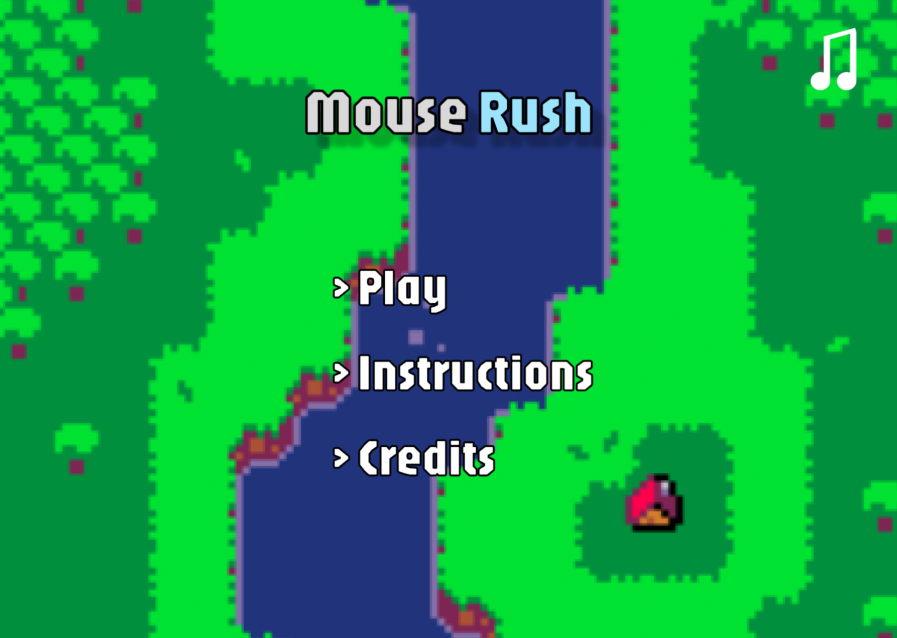
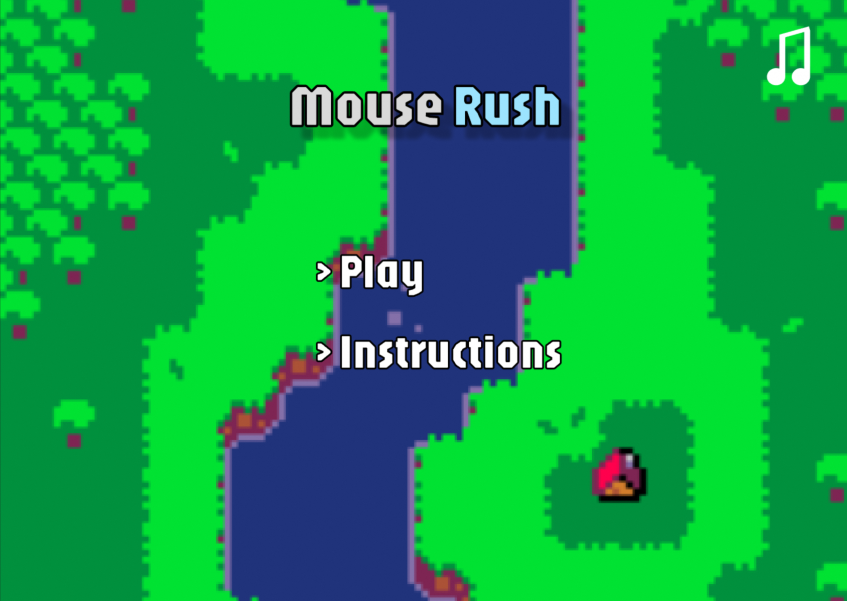
03.04.2025 - Updated mockup page + logbook

diff --git a/journal_de_bord.html b/journal_de_bord.html
@@ -53,81 +53,98 @@
                 a description of the task, and finally the author's name.</p>
             <table>
                 <thead>
-                    <tr>
-                        <th>Date</th>
-                        <th>Duration</th>
-                        <th>Task</th>
-                        <th>Author</th>
-                    </tr>
+                <tr>
+                    <th>Date</th>
+                    <th>Duration</th>
+                    <th>Task</th>
+                    <th>Author</th>
+                </tr>
                 </thead>
                 <tbody>
-                    <tr>
-                        <td>14.03.2025</td>
-                        <td>01:00</td>
-                        <td>Alignment meeting</td>
-                        <td>The team</td>
-                    </tr>
-                    <tr>
-                        <td>16.03.2025</td>
-                        <td>04:00</td>
-                        <td>General organization of the project with files, GitHub creation and analyze of the structure
-                            of the given website example + CSS general layout with pictures. </td>
-                        <td>Marion Rossier</td>
-                    </tr>
-                    <tr>
-                        <td>20.03.2025</td>
-                        <td>00:20</td>
-                        <td>Study about generation of noises using Java.</td>
-                        <td>Mégane Donnet-Monay</td>
-                    </tr>
-                    <tr>
-                        <td>21.03.2025</td>
-                        <td>01:00</td>
-                        <td>Organisationnal meeting</td>
-                        <td>The team</td>
-                    </tr>
-                    <tr>
-                        <td>21.03.2025</td>
-                        <td>02:00</td>
-                        <td>CSS, the responsive part + adjustments</td>
-                        <td>Marion Rossier</td>
-                    </tr>
-                    <tr>
-                        <td>23.03.2025</td>
-                        <td>01:30</td>
-                        <td>Description page content</td>
-                        <td>Eric Sierro</td>
-                    </tr>
-                    <tr>
-                        <td>26.03.2025</td>
-                        <td>01:00</td>
-                        <td>Addition of the logbook + corresponding CSS</td>
-                        <td>Marion Rossier</td>
-                    </tr>
-                    <tr>
-                        <td>27.03.2025</td>
-                        <td>01:00</td>
-                        <td>Adjustment of the description page and the logbook page.</td>
-                        <td>Eric Sierro</td>
-                    </tr>
-                    <tr>
-                        <td>27.03.2025</td>
-                        <td>00:30</td>
-                        <td>Refactoring sequence diagram</td>
-                        <td>Marion Rossier and Mégane Donnet-Monay</td>
-                    </tr>
-                    <tr>
-                        <td>28.03.2025</td>
-                        <td>03:00</td>
-                        <td>Adjustement responsive CSS + add Wireframe and diagrams </td>
-                        <td>Marion Rossier</td>
-                    </tr>
-                    <tr>
-                        <td>31.03.2025</td>
-                        <td>01:30</td>
-                        <td>Creation of a part of the game with random structure like labyrinth </td>
-                        <td>Marion Rossier</td>
-                    </tr>
+                <tr>
+                    <td>14.03.2025</td>
+                    <td>01:00</td>
+                    <td>Alignment meeting</td>
+                    <td>The team</td>
+                </tr>
+                <tr>
+                    <td>16.03.2025</td>
+                    <td>04:00</td>
+                    <td>General organization of the project with files, GitHub creation and analyze of the structure
+                        of the given website example + CSS general layout with pictures.
+                    </td>
+                    <td>Marion Rossier</td>
+                </tr>
+                <tr>
+                    <td>20.03.2025</td>
+                    <td>00:20</td>
+                    <td>Study about generation of noises using Java.</td>
+                    <td>Mégane Donnet-Monay</td>
+                </tr>
+                <tr>
+                    <td>21.03.2025</td>
+                    <td>01:00</td>
+                    <td>Organisationnal meeting</td>
+                    <td>The team</td>
+                </tr>
+                <tr>
+                    <td>21.03.2025</td>
+                    <td>02:00</td>
+                    <td>CSS, the responsive part + adjustments</td>
+                    <td>Marion Rossier</td>
+                </tr>
+                <tr>
+                    <td>23.03.2025</td>
+                    <td>01:30</td>
+                    <td>Description page content</td>
+                    <td>Eric Sierro</td>
+                </tr>
+                <tr>
+                    <td>26.03.2025</td>
+                    <td>01:00</td>
+                    <td>Addition of the logbook + corresponding CSS</td>
+                    <td>Marion Rossier</td>
+                </tr>
+                <tr>
+                    <td>27.03.2025</td>
+                    <td>01:00</td>
+                    <td>Adjustment of the description page and the logbook page.</td>
+                    <td>Eric Sierro</td>
+                </tr>
+                <tr>
+                    <td>27.03.2025</td>
+                    <td>02:00</td>
+                    <td>Mockup screenshots created and added to the page</td>
+                    <td>Valentin Guiraud</td>
+                </tr>
+                <tr>
+                    <td>27.03.2025</td>
+                    <td>00:30</td>
+                    <td>Refactoring sequence diagram</td>
+                    <td>Marion Rossier and Mégane Donnet-Monay</td>
+                </tr>
+                <tr>
+                    <td>28.03.2025</td>
+                    <td>03:00</td>
+                    <td>Adjustement responsive CSS + add Wireframe and diagrams</td>
+                    <td>Marion Rossier</td>
+                </tr>
+                <td>29.03.2025</td>
+                <td>01:00</td>
+                <td>Customised mockup pictures using texture pack</td>
+                <td>Valentin Guiraud</td>
+                <tr>
+                    <td>31.03.2025</td>
+                    <td>01:30</td>
+                    <td>Creation of a part of the game with random structure like labyrinth</td>
+                    <td>Marion Rossier</td>
+                </tr>
+                </tr>
+                    <td>03.04.2025</td>
+                    <td>02:30</td>
+                    <td>Updated mockup pictures + several themes created for maps</td>
+                    <td>Valentin Guiraud</td>
+                <tr>
                 </tbody>
             </table>
             <p>Le code source de l'application est disponible sur le
@@ -137,11 +154,11 @@
     </section>
     <!-- >Fin zone pour votre contenu -->
 </main>
-    
-    <footer>
-        <img id="logo" src="ressources/images/logo.png">
-    </footer>
 
-    <script src="ressources/js/script.js"></script>
+<footer>
+    <img id="logo" src="ressources/images/logo.png">
+</footer>
+
+<script src="ressources/js/script.js"></script>
 </body>
 </html>

diff --git a/mockup.html b/mockup.html
@@ -43,8 +43,8 @@
     <section id="articles">
         <article>
             <header>
-                <h2>Screenshots of the Game "Deep Maze"</h2>
-                <p>By Valentin, the 27.03.2025</p>
+                <h2>Screenshots of the Game "Mouse Rush"</h2>
+                <p>By Valentin, the 03.04.2025</p>
                 <p>Here are the different stages of the user experience in the game, from the main menu to the death screen.</p>
             </header>
 
@@ -57,31 +57,25 @@
                 </div>
 
                 <div class="screenshot-item">
-                    <h3>Difficulty Selection</h3>
-                    <img src="ressources/images/mockup/difficulty.png" alt="Difficulty selection in Deep Maze">
-                    <p>After the menu, players choose their difficulty level: Easy, Medium (with a timer), or Hard (at your own risks).</p>
-                </div>
-
-                <div class="screenshot-item">
                     <h3>Instructions</h3>
                     <img src="ressources/images/mockup/instructions.png" alt="Instructions for Deep Maze">
                     <p>The instructions explain the game rules: guide the red ball through the maze without touching the walls.</p>
                 </div>
 
                 <div class="screenshot-item">
-                    <h3>Gameplay - Easy</h3>
+                    <h3>Play</h3>
                     <img src="ressources/images/mockup/Game - easy.png" alt="Gameplay of Deep Maze in Easy mode">
-                    <p>Gameplay in Easy mode, where the player has more lives and no timer, making it easier to navigate the maze.</p>
+                    <p>Gameplay in Easy mode, where the player has no timer, making it easier to navigate the maze.</p>
                 </div>
 
                 <div class="screenshot-item">
-                    <h3>Gameplay - Medium</h3>
+                    <h3>Play - Timer</h3>
                     <img src="ressources/images/mockup/Game - medium.png" alt="Gameplay of Deep Maze in Medium mode">
                     <p>Gameplay in Medium mode, with a timer that adds pressure while navigating the maze.</p>
                 </div>
 
                 <div class="screenshot-item">
-                    <h3>Gameplay - Hard</h3>
+                    <h3>Play - Fog</h3>
                     <img src="ressources/images/mockup/Game - hard.png" alt="Gameplay of Deep Maze in Hard mode">
                     <p>Gameplay in Hard mode, where the player is walking into darkness, making the challenge much tougher.</p>
                 </div>
@@ -91,6 +85,19 @@
                     <img src="ressources/images/mockup/death.png" alt="Death screen in Deep Maze">
                     <p>The screen displayed when a player touches a wall, losing a life, with options to continue or return to the menu.</p>
                 </div>
+
+                <div class="screenshot-item">
+                    <h3>Themed maps - Dungeon</h3>
+                    <img src="ressources/images/mockup/Theme-Dungeon.png" alt="Dungeon themed map">
+                    <p>A themed map featuring a dungeon environment with dark and mysterious visuals.</p>
+                </div>
+
+                <div class="screenshot-item">
+                    <h3>Desert</h3>
+                    <img src="ressources/images/mockup/Theme-Desert.png" alt="Desert themed map">
+                    <p>A themed map showcasing a desert environment with sandy textures and warm tones.</p>
+                </div>
+
             </section>
         </article>
     </section>
